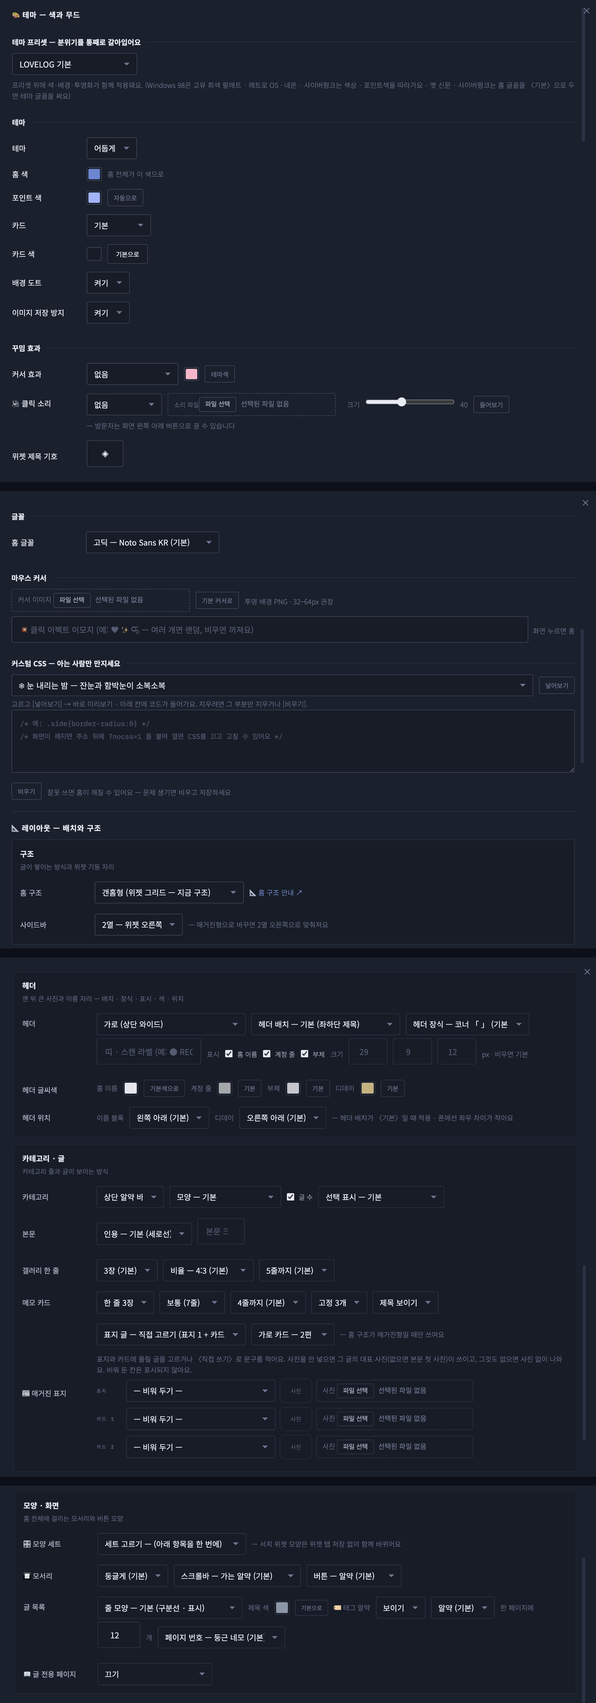
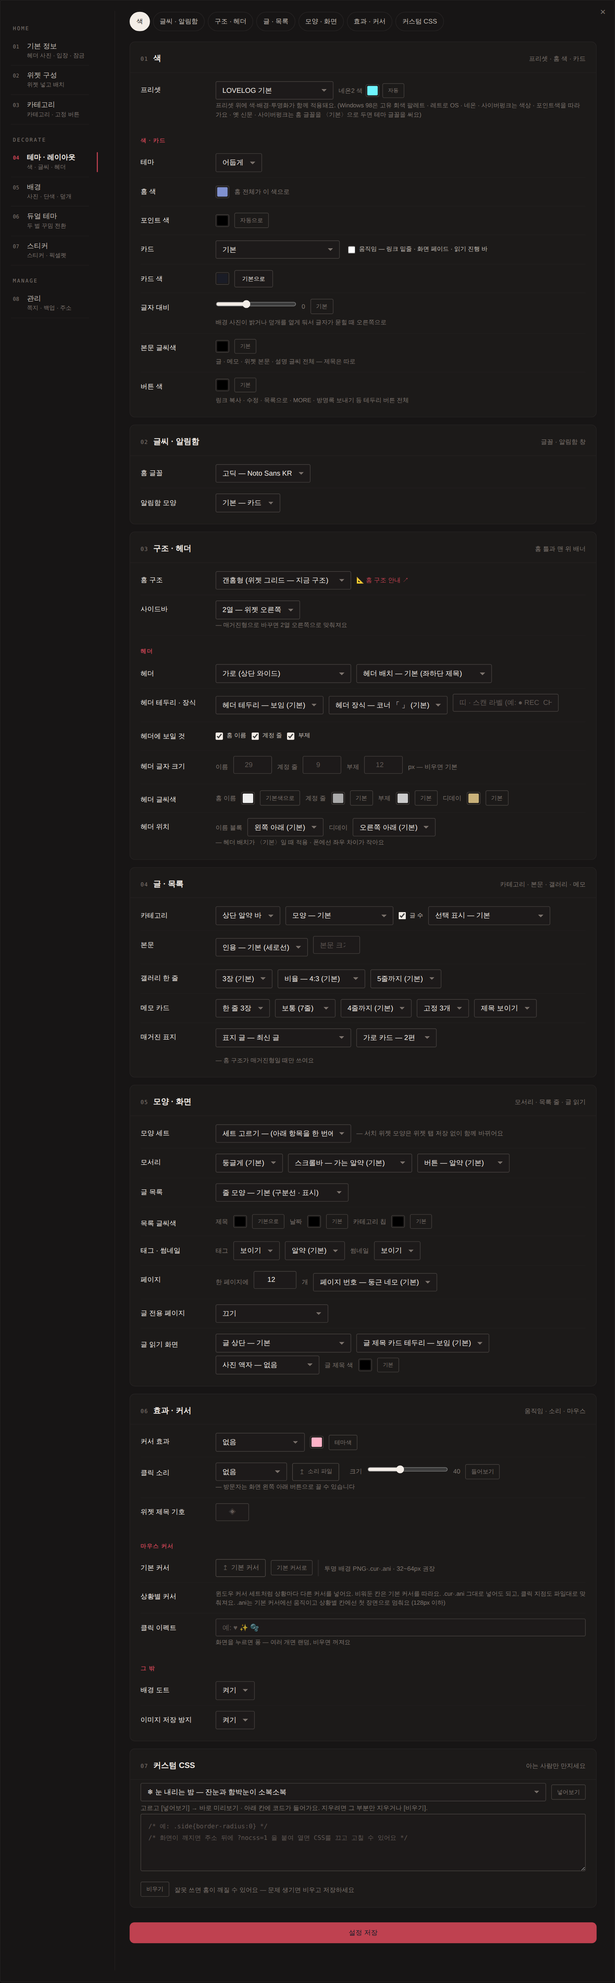
Add files via upload

diff --git a/luvlog/theme.html b/luvlog/theme.html
@@ -23,11 +23,25 @@
   <main class="doc">
     <p class="crumb">러브로그 · 꾸미기</p>
     <h1>테마·레이아웃</h1>
-    <p class="lead">설정 창은 위에서 아래로 구조 → 헤더 → 카테고리·글 → 모양·화면 → 테마 프리셋 → 테마·색 → 꾸밈 효과 순서입니다. 각 덩이가 하는 일만 알면 어디를 만져야 할지 바로 보입니다.</p><dl class="kv"><dt>구조</dt><dd>홈 구조(갠홈·블로그·매거진), 사이드바 2열/3열, 헤더를 세로 칼럼(왼쪽/오른쪽)으로 — 대문 사진이 그 칸 전체를 차지하고 스크롤을 따라옵니다.</dd><dt>헤더</dt><dd>헤더 자리(가로 · 세로 · 세로 칼럼 왼쪽/오른쪽 · 헤더 없음 — 카테고리부터 시작), 배치 프리셋 6종(기본·센터·명함·스플릿·미니멀·매거진), 액자 장식 7종(코너·없음·상단 띠·이중선·필름·스탬프·스캔라인), 이름·계정 줄·부제 표시와 크기·색, 이름 블록·디데이 블록 자리(9방향). 〈미니멀〉은 배너 사진을 숨기는 배치.</dd><dt>카테고리·글</dt><dd>카테고리 위치와 모양, 본문 글씨 크기(11~20px), 갤러리 한 줄 장수(1~4), 메모 카드 개수(2~4), 글 목록 줄 모양 6종(기본·번호 목차·점 리더·카드·미니멀·왼쪽 선), 제목 색 · 날짜 색 · 카테고리 칩 색, 태그 알약, 썸네일 표시, 한 페이지 글 수(3~100), 페이지 번호 모양 5종, 글 읽기 화면 — 글 상단 타이틀 카드(기본 · 표지형 · 신문 헤드라인 · 티켓) · 사진 액자(폴라로이드 · 필름 · 둥근 그림자 · 얇은 선) · 글 제목 색, 글 전용 페이지(글 읽을 때 위젯 접기).</dd><dt>모양·화면</dt><dd>모서리(둥근/각진/뾰족 — 카드·버튼·알약까지), 버튼 모양(BACK·더보기 — 알약·네모·글자만).</dd><dt>테마 프리셋</dt><dd>색·글꼴·효과를 한 번에 갈아입는 세트. 누른 뒤 아래에서 세부 조정. <b>옛 신문</b>은 신문 제호처럼 보이도록 헤더 사진을 기본으로 숨깁니다 — 사진을 쓰려면 프리셋 셀렉트 옆 「마스트헤드 아래 헤더 사진 보이기」를 켜세요(제호 아래 세피아 액자로, PC 240px · 폰 160px).</dd><dt>테마·색</dt><dd>홈 색·포인트 색(자동/직접), 카드(기본 · 유리 · 종이 · 선만 · 라벨 없이) · 카드 색, 움직임(링크 밑줄 · 화면 페이드 · 읽기 진행 바), 글자 대비(배경 사진이 밝거나 덮개를 옅게 둬 글자가 묻힐 때 오른쪽으로), 본문 글씨색(글 · 메모 · 위젯 본문 · 설명 전체) · 버튼 색(테두리 버튼 전체), 배경 도트, 밝은 테마, 헤더 배경 없애기(투명 PNG 헤더용), 글꼴 12종(고딕·명조·프리텐다드·수트·고운돋움·고운바탕·마루 부리·리디바탕·나눔손글씨 펜·둥근모꼴·갈무리·페이퍼로지), 이미지 저장 방지, 커스텀 CSS.</dd><dt>꾸밈 효과</dt><dd>커서 효과(✨💗🫧)·움짤 커서(GIF, PC), 컨셉 프리셋 12종(눈 내리는 밤·벚꽃·반딧불이·심해 부유물·거품·빛 입자·금빛 별가루·VHS·비 오는 창가·필름 카메라·CRT·점선 스크랩북), 🔊 클릭 소리(딸깍·톡·삑·뽁 — 방문자는 왼쪽 아래 🔇로 끔).</dd></dl><figure class="shot" data-id="ll-theme-panel"><img src="../img/ll-theme-panel.png" alt="" loading="lazy" onerror="this.closest('figure').classList.add('empty')"><span class="ph"><b>사진 자리</b><i>img/ll-theme-panel.png</i></span><figcaption>테마·레이아웃 설정 창</figcaption></figure><figure class="shot" data-id="ll-theme-header"><img src="../img/ll-theme-header.png" alt="" loading="lazy" onerror="this.closest('figure').classList.add('empty')"><span class="ph"><b>사진 자리</b><i>img/ll-theme-header.png</i></span><figcaption>헤더 배치 프리셋 6종</figcaption></figure><aside class="tip">컬러 피커 — 아래 바로 색상, 위 네모에서 채도(왼쪽=차분/오른쪽=쨍)와 밝기. 색을 만지면 위젯과 버튼이 전부 따라옵니다.</aside><aside class="warn">커스텀 CSS로 화면이 깨져 손을 못 대겠으면 주소 뒤에 <code>?nocss=1</code>을 붙여 여세요. CSS가 꺼진 채 열려 고치거나 비울 수 있습니다.</aside>
-    <h2 id="테두리-끄기">헤더 · 글 제목 카드 테두리</h2>
+    <p class="lead">설정 창 위쪽의 칩(색 · 글씨·알림함 · 구조·헤더 · 글·목록 · 모양·화면 · 효과·커서 · 커스텀 CSS)을 누르면 그 섹션으로 바로 이동합니다. 섹션은 아래 순서대로 놓여 있고, 줄마다 왼쪽 이름표와 아래 설명으로 무엇을 바꾸는지 적혀 있습니다.</p><dl class="kv"><dt>01 색</dt><dd>프리셋 — 색·글꼴·효과를 한 번에 갈아입는 세트입니다. 고른 뒤 아래에서 세부 조정합니다. <b>옛 신문</b>은 신문 제호처럼 보이도록 헤더 사진을 기본으로 숨깁니다 — 사진을 쓰려면 프리셋 옆 「마스트헤드 아래 헤더 사진 보이기」를 켜세요(제호 아래 세피아 액자로, PC 240px · 폰 160px). 이어서 밝게/어둡게, 홈 색 · 포인트 색(자동/직접), 카드(기본 · 유리 · 종이 · 선만 · 라벨 없이) · 카드 색, 움직임(링크 밑줄 · 화면 페이드 · 읽기 진행 바), 글자 대비(배경 사진이 밝거나 덮개를 옅게 둬 글자가 묻힐 때 오른쪽으로), 본문 글씨색(글 · 메모 · 위젯 본문 · 설명 전체) · 버튼 색(테두리 버튼 전체).</dd><dt>02 글씨 · 알림함</dt><dd>홈 글꼴 12종(고딕·명조·프리텐다드·수트·고운돋움·고운바탕·마루 부리·리디바탕·나눔손글씨 펜·둥근모꼴·갈무리·페이퍼로지)과 🔔 알림함 모양.</dd><dt>03 구조 · 헤더</dt><dd>홈 구조(갠홈·블로그·매거진), 사이드바 2열/3열, 헤더 자리(가로 · 세로 · 세로 칼럼 왼쪽/오른쪽 · 헤더 없음 — 카테고리부터 시작), 배치 프리셋 6종(기본·센터·명함·스플릿·미니멀·매거진), 헤더 테두리, 액자 장식 7종(코너·없음·상단 띠·이중선·필름·스탬프·스캔라인), 헤더에 보일 것(홈 이름 · 계정 줄 · 부제)과 글자 크기 · 글씨색, 이름 블록 · 디데이 블록 자리. 〈미니멀〉은 배너 사진을 숨기는 배치입니다.</dd><dt>04 글 · 목록</dt><dd>카테고리 위치와 모양 · 글 수 · 선택 표시, 본문 인용 모양과 글씨 크기(11~20px), 갤러리 한 줄 장수 · 비율 · 줄 수, 메모 카드 개수 · 높이 · 고정 · 제목, 매거진 표지(매거진형일 때만).</dd><dt>05 모양 · 화면</dt><dd>모양 세트(아래 항목을 한 번에), 모서리(둥근/각진/뾰족 — 카드·버튼·알약까지) · 스크롤바 · 버튼 모양, 글 목록 줄 모양 6종(기본·번호 목차·점 리더·카드·미니멀·왼쪽 선), 목록 글씨색(제목 · 날짜 · 카테고리 칩), 태그 알약 · 썸네일, 한 페이지 글 수(3~100) · 페이지 번호 모양 5종, 글 전용 페이지(글 읽을 때 위젯 접기), 글 읽기 화면 — 글 상단 타이틀 카드(기본 · 표지형 · 신문 헤드라인 · 티켓) · 글 제목 카드 테두리 · 사진 액자(폴라로이드 · 필름 · 둥근 그림자 · 얇은 선) · 글 제목 색.</dd><dt>06 효과 · 커서</dt><dd>커서 효과(✨💗🫧), 🔊 클릭 소리(딸깍·톡·삑·뽁 또는 직접 올린 소리 — 방문자는 왼쪽 아래 🔇로 끔), 위젯 제목 기호(◈), 마우스 커서(기본 커서 · 상황별 커서), 클릭 이펙트 이모지, 배경 도트, 이미지 저장 방지.</dd><dt>07 커스텀 CSS</dt><dd>컨셉 프리셋 12종(눈 내리는 밤·벚꽃·반딧불이·심해 부유물·거품·빛 입자·금빛 별가루·VHS·비 오는 창가·필름 카메라·CRT·점선 스크랩북)을 [넣어보기]로 바로 미리 보고, 아래 칸에서 직접 고칩니다.</dd></dl><figure class="shot" data-id="ll-theme-panel"><img src="../img/ll-theme-panel.png" alt="" loading="lazy" onerror="this.closest('figure').classList.add('empty')"><span class="ph"><b>사진 자리</b><i>img/ll-theme-panel.png</i></span><figcaption>테마·레이아웃 설정 창 — 위쪽 칩으로 섹션 이동</figcaption></figure><figure class="shot" data-id="ll-theme-header"><img src="../img/ll-theme-header.png" alt="" loading="lazy" onerror="this.closest('figure').classList.add('empty')"><span class="ph"><b>사진 자리</b><i>img/ll-theme-header.png</i></span><figcaption>헤더 배치 프리셋 6종</figcaption></figure><aside class="tip">컬러 피커 — 아래 바로 색상, 위 네모에서 채도(왼쪽=차분/오른쪽=쨍)와 밝기. 색을 만지면 위젯과 버튼이 전부 따라옵니다.</aside><aside class="warn">커스텀 CSS로 화면이 깨져 손을 못 대겠으면 주소 뒤에 <code>?nocss=1</code>을 붙여 여세요. CSS가 꺼진 채 열려 고치거나 비울 수 있습니다.</aside>
+    <h2 id="알림함-모양">🔔 알림함 모양</h2>
 <ul>
-  <li>헤더 탭의 〈헤더 테두리 — 없음〉은 홈 맨 위 헤더 배너 카드를 두르는 1px 선을 지웁니다.</li>
-  <li>색·글씨 탭의 〈글 제목 카드 테두리 — 없음〉은 글 읽기 화면 맨 위 제목 카드의 선을 지웁니다 — 신문 헤드라인형의 위아래 선, 티켓형의 카드 테두리와 양옆 구멍 장식, 표지형 테두리까지. 기본형은 원래 선이 없어 달라지지 않습니다.</li>
+  <li>홈 주인에게만 보이는 오른쪽 위 🔔 알림함 창의 모양입니다. 기본(카드) · 줄 목록 · 터미널 · 편지지 · 말풍선 중에서 고릅니다.</li>
+  <li>테마가 알아서 바꾸지 않습니다 — 고른 모양이 그대로 유지됩니다. 알림함 쓰는 법은 <a href="screen.html#알림함">화면 구성과 버튼</a>에 있습니다.</li>
+</ul>
+<h2 id="마우스-커서">마우스 커서</h2>
+<ul>
+  <li>기본 커서 — 투명 배경 PNG · .cur · .ani 파일을 올립니다(32~64px 권장, 128px 이하만 적용).</li>
+  <li>.ani(움직이는 윈도우 커서)를 기본 커서로 넣으면 움직이는 그대로 재생됩니다. 브라우저가 커서 움직임을 지원하지 않아 그림을 따로 띄워 따라다니게 하는 방식이라, PC에서만 보입니다.</li>
+  <li>상황별 커서 — 윈도우 커서 세트처럼 🔗 링크·버튼 / ✎ 글자 입력 / ✥ 끌어 옮기기 / ⊘ 사용 불가 칸마다 다른 커서를 넣습니다. 비워둔 칸은 기본 커서를 따라갑니다. 상황별 칸에 넣은 .ani는 첫 장면으로 멈춥니다.</li>
+  <li>.cur · .ani 파일은 클릭 지점(커서 끝)도 파일에 적힌 대로 맞춰집니다.</li>
+  <li>듀얼 테마를 쓰면 커서도 모드마다 따로 담깁니다.</li>
+</ul>
+<figure class="shot" data-id="ll-cursor-set"><img src="../img/ll-cursor-set.png" alt="" loading="lazy" onerror="this.closest('figure').classList.add('empty')"><span class="ph"><b>사진 자리</b><i>img/ll-cursor-set.png</i></span><figcaption>상황별 커서 — 링크·버튼 / 글자 입력 / 끌어 옮기기 / 사용 불가</figcaption></figure>
+<h2 id="테두리-끄기">헤더 · 글 제목 카드 테두리</h2>
+<ul>
+  <li>구조 · 헤더 섹션의 〈헤더 테두리 — 없음〉은 홈 맨 위 헤더 배너 카드를 두르는 1px 선을 지웁니다.</li>
+  <li>모양 · 화면 섹션 「글 읽기 화면」의 〈글 제목 카드 테두리 — 없음〉은 글 읽기 화면 맨 위 제목 카드의 선을 지웁니다 — 신문 헤드라인형의 위아래 선, 티켓형의 카드 테두리와 양옆 구멍 장식, 표지형 테두리까지. 기본형은 원래 선이 없어 달라지지 않습니다.</li>
 </ul>
 <h2 id="단색-배경">단색 배경과 덮개 색</h2>
 <ul>

diff --git a/luvlog/format.html b/luvlog/format.html
@@ -23,7 +23,7 @@
   <main class="doc">
     <p class="crumb">러브로그 · 글쓰기</p>
     <h1>본문 서식</h1>
-    <p class="lead">툴바 버튼을 누르거나, 아래 문법으로 직접 감싸도 됩니다. 글은 열 때마다 원문으로 다시 그려지므로 서식 기능이 좋아지면 예전 글에도 바로 적용됩니다.</p><h2 id="기본-서식">기본 서식</h2><ul><li>글자를 드래그로 고르고 B · I · U · S · H, 또는 <code>**굵게**</code> <code>*기울임*</code> <code>__밑줄__</code> <code>~~취소선~~</code> <code>==형광펜==</code></li><li>문단 정렬(☰▾ — 가운데·오른쪽·양쪽·들여쓰기), 구분선(―▾ — 가는 선·굵은 선·점선·빗금·◆ 장식), 목록(1.≡ / •≡)</li><li>글자 크기 <code>{{18:글}}</code>(8~72px), 글자색 <code>{{#f00:글}}</code> — 여러 문단에 걸쳐 열고 닫아도 문단마다 적용됩니다. 이 둘은 HTML 블록·HTML 모드 안에서도 씁니다.</li></ul><figure class="shot" data-id="ll-format-toolbar"><img src="../img/ll-format-toolbar.png" alt="" loading="lazy" onerror="this.closest('figure').classList.add('empty')"><span class="ph"><b>사진 자리</b><i>img/ll-format-toolbar.png</i></span><figcaption>글쓰기 툴바</figcaption></figure><h2 id="접은-글-인용-링크">접은 글 · 인용 · 링크</h2><ul><li>▸ 접은 글 — 툴바 ▸ 또는 <code>[접기:제목] … [/접기]</code>. 읽는 사람이 눌러서 펼치는 상자. 접은 내용은 목록 미리보기(발췌)에 안 나옵니다.</li><li>❝ 인용 상자 — 각 줄 앞에 <code>&gt;</code>. 모양(세로선/따옴표/편지지)은 테마·레이아웃에서.</li><li>🔗 글자 링크 — <code>[보일 글자](https://주소)</code></li></ul><h2 id="사진과-영상">사진과 영상</h2><ul><li>사진을 첨부하고 본문에 <code>[사진1]</code> <code>[사진2]</code>를 쓰면 그 자리에 들어갑니다. 붙여넣기(Ctrl+V)나 끌어다 놓기로도 첨부됩니다.</li><li>「⌘ MD 복사」 — 툴바 끝 버튼을 누르면 지금 쓰는 글이 마크다운으로 클립보드에 복사됩니다(접기→details, 사이드노트→각주, 사진은 주소). 글을 읽을 때도 주인에게 ⌘ MD 버튼이 보입니다. 노션·옵시디언·다른 블로그에 그대로 붙일 때.</li><li>본문 장식 — 문단 앞 @d 로 드롭캡(첫 글자 크게), 글 안에 [주:내용] 으로 사이드노트(넓은 화면에선 오른쪽 여백에, 좁으면 본문 아래 작은 글씨), 사진 아래 ~ 로 시작하는 줄은 캡션, >" 는 큰 따옴표 인용, >~ 는 편지지 인용. 툴바의 정렬 메뉴와 ✦ 메뉴에서 넣을 수 있습니다.</li><li>첨부 썸네일의 ☆를 누르면 대표 사진 — 글 목록·매거진 표지에 걸립니다(안 고르면 본문 첫 사진). 본문에 사진이 없어도 「🖼 썸네일 직접 올리기」로 따로 올릴 수 있으며, 대표 사진이 정해지면 확대·가로·세로 슬라이더로 목록(정사각)과 매거진(가로)에서 보일 부분을 조정할 수 있습니다. 「목록 썸네일」 셀렉트로 이 글만 목록에서 썸네일을 보이거나 숨길 수 있으며, 홈 전체 설정보다 우선합니다.</li><li>유튜브 주소를 한 줄에 붙여넣으면 카드로 박힙니다.</li></ul><h2 id="대화-말풍선-서식">💬 대화(말풍선) 서식</h2><p><code>[톡:이름1/이름2]</code> 줄과 <code>[/톡]</code> 줄 사이에 「이름: 대사」를 줄줄이 쓰면 말풍선 대화가 됩니다. 첫 인물이 왼쪽, 둘째가 오른쪽, 이름 없는 줄은 가운데 지문. 이름 뒤에 <code>=#색상</code>을 붙이면 그 사람 풍선에 색이 입혀집니다.</p><p>툴바 💬 팝업에서 모양(기본 / 메신저 흰 박스 / 무전 로그)·창 너비·풍선색·인물별 이름·색·프로필 사진까지 정하고, 〈프리셋 저장〉하면 다음 글에서 <code>[톡@프리셋이름]</code> 한 줄로 재사용됩니다. 페어가 여럿이면 프리셋을 여러 개 만들어 두세요.</p><figure class="shot" data-id="ll-format-talk"><img src="../img/ll-format-talk.png" alt="" loading="lazy" onerror="this.closest('figure').classList.add('empty')"><span class="ph"><b>사진 자리</b><i>img/ll-format-talk.png</i></span><figcaption>대화 서식 팝업과 결과</figcaption></figure><h2 id="html-블록-html-모드">🧩 HTML 블록 / HTML 모드</h2><ul><li>본문 일부만 HTML로 넣으려면 <code>[html]</code> 줄과 <code>[/html]</code> 줄 사이에 코드를 씁니다. 바깥은 평소 서식, 안은 코드 그대로.</li><li>글 전체가 HTML이면 「HTML 모드」 체크. 📄 HTML 파일을 그대로 올려도 되고, 코드 위·아래 일반 텍스트는 줄바꿈까지 그대로 보입니다.</li><li>화면을 붙잡는 형태의 로그는 홈이 밀리지 않게 자동으로 액자에 격리되고, 일반 HTML 글엔 홈 커스텀 CSS가 그대로 적용됩니다.</li></ul><aside class="tip">📑 목차 — 큰 글자(18 이상)로만 쓴 짧은 줄이 2개 이상이면 글 상단에 목차가 자동으로 생깁니다.</aside>
+    <p class="lead">툴바 버튼을 누르거나, 아래 문법으로 직접 감싸도 됩니다. 글은 열 때마다 원문으로 다시 그려지므로 서식 기능이 좋아지면 예전 글에도 바로 적용됩니다.</p><h2 id="기본-서식">기본 서식</h2><ul><li>글자를 드래그로 고르고 B · I · U · S · H, 또는 <code>**굵게**</code> <code>*기울임*</code> <code>__밑줄__</code> <code>~~취소선~~</code> <code>==형광펜==</code></li><li>문단 정렬(☰▾ — 가운데·오른쪽·양쪽·들여쓰기), 구분선(―▾ — 가는 선·굵은 선·점선·빗금·◆ 장식), 목록(1.≡ / •≡)</li><li>글자 크기 <code>{{18:글}}</code>(8~72px), 글자색 <code>{{#f00:글}}</code> — 여러 문단에 걸쳐 열고 닫아도 문단마다 적용됩니다. 이 둘은 HTML 블록·HTML 모드 안에서도 씁니다.</li></ul><figure class="shot" data-id="ll-format-toolbar"><img src="../img/ll-format-toolbar.png" alt="" loading="lazy" onerror="this.closest('figure').classList.add('empty')"><span class="ph"><b>사진 자리</b><i>img/ll-format-toolbar.png</i></span><figcaption>글쓰기 툴바</figcaption></figure><h2 id="접은-글-인용-링크">접은 글 · 인용 · 링크</h2><ul><li>▸ 접은 글 — 툴바 ▸ 또는 <code>[접기:제목] … [/접기]</code>. 읽는 사람이 눌러서 펼치는 상자. 접은 내용은 목록 미리보기(발췌)에 안 나옵니다.</li><li>❝ 인용 상자 — 각 줄 앞에 <code>&gt;</code>. 모양(세로선/따옴표/편지지)은 테마·레이아웃에서.</li><li>🔗 글자 링크 — <code>[보일 글자](https://주소)</code></li></ul><h2 id="사진과-영상">사진과 영상</h2><ul><li>사진을 첨부하고 본문에 <code>[사진1]</code> <code>[사진2]</code>를 쓰면 그 자리에 들어갑니다. 붙여넣기(Ctrl+V)나 끌어다 놓기로도 첨부됩니다. 첨부 썸네일의 ✕로 사진을 빼면 본문의 [사진N] 번호가 자동으로 다시 매겨집니다.</li><li>슬라이드 — <code>[슬라이드 1-3]</code>처럼 쓰면 그 사진들이 한 자리에서 넘겨 보는 슬라이드가 됩니다. <code>[슬라이드 2,4,5]</code>처럼 골라 묶을 수도 있고, 첨부 칸의 「⇆ 슬라이드로 넣기」를 누르면 첨부한 사진 전부가 한 번에 들어갑니다.</li><li>「⌘ MD 복사」 — 툴바 끝 버튼을 누르면 지금 쓰는 글이 마크다운으로 클립보드에 복사됩니다(접기→details, 사이드노트→각주, 사진은 주소). 글을 읽을 때도 주인에게 ⌘ MD 버튼이 보입니다. 노션·옵시디언·다른 블로그에 그대로 붙일 때.</li><li>본문 장식 — 문단 앞 @d 로 드롭캡(첫 글자 크게), 글 안에 [주:내용] 으로 사이드노트(넓은 화면에선 오른쪽 여백에, 좁으면 본문 아래 작은 글씨), 사진 아래 ~ 로 시작하는 줄은 캡션, >" 는 큰 따옴표 인용, >~ 는 편지지 인용. 툴바의 정렬 메뉴와 ✦ 메뉴에서 넣을 수 있습니다.</li><li>첨부 썸네일의 ☆를 누르면 대표 사진 — 글 목록·매거진 표지에 걸립니다(안 고르면 본문 첫 사진). 본문에 사진이 없어도 「🖼 썸네일 직접 올리기」로 따로 올릴 수 있으며, 대표 사진이 정해지면 확대·가로·세로 슬라이더로 목록(정사각)과 매거진(가로)에서 보일 부분을 조정할 수 있습니다. 「목록 썸네일」 셀렉트로 이 글만 목록에서 썸네일을 보이거나 숨길 수 있으며, 홈 전체 설정보다 우선합니다.</li><li>유튜브 주소를 한 줄에 붙여넣으면 카드로 박힙니다.</li></ul><h2 id="대화-말풍선-서식">💬 대화(말풍선) 서식</h2><p><code>[톡:이름1/이름2]</code> 줄과 <code>[/톡]</code> 줄 사이에 「이름: 대사」를 줄줄이 쓰면 말풍선 대화가 됩니다. 첫 인물이 왼쪽, 둘째가 오른쪽, 이름 없는 줄은 가운데 지문. 이름 뒤에 <code>=#색상</code>을 붙이면 그 사람 풍선에 색이 입혀집니다.</p><p>툴바 💬 팝업에서 모양(기본 / 메신저 흰 박스 / 무전 로그)·창 너비·풍선색·인물별 이름·색·프로필 사진까지 정하고, 〈프리셋 저장〉하면 다음 글에서 <code>[톡@프리셋이름]</code> 한 줄로 재사용됩니다. 페어가 여럿이면 프리셋을 여러 개 만들어 두세요.</p><figure class="shot" data-id="ll-format-talk"><img src="../img/ll-format-talk.png" alt="" loading="lazy" onerror="this.closest('figure').classList.add('empty')"><span class="ph"><b>사진 자리</b><i>img/ll-format-talk.png</i></span><figcaption>대화 서식 팝업과 결과</figcaption></figure><h2 id="html-블록-html-모드">🧩 HTML 블록 / HTML 모드</h2><ul><li>본문 일부만 HTML로 넣으려면 <code>[html]</code> 줄과 <code>[/html]</code> 줄 사이에 코드를 씁니다. 바깥은 평소 서식, 안은 코드 그대로.</li><li>글 전체가 HTML이면 「HTML 모드」 체크. 📄 HTML 파일을 그대로 올려도 되고, 코드 위·아래 일반 텍스트는 줄바꿈까지 그대로 보입니다.</li><li>화면을 붙잡는 형태의 로그는 홈이 밀리지 않게 자동으로 액자에 격리되고, 일반 HTML 글엔 홈 커스텀 CSS가 그대로 적용됩니다.</li></ul><aside class="tip">📑 목차 — 큰 글자(18 이상)로만 쓴 짧은 줄이 2개 이상이면 글 상단에 목차가 자동으로 생깁니다.</aside>
     <nav class="pn" id="pn"></nav>
   </main>
 </div>

diff --git a/luvlog/basic.html b/luvlog/basic.html
@@ -23,7 +23,7 @@
   <main class="doc">
     <p class="crumb">러브로그 · 꾸미기</p>
     <h1>기본 정보</h1>
-    <h2 id="이름과-라벨">이름과 라벨</h2><p>홈 이름·부제(엔터로 줄 나눔), 헤더 위 작은 라벨(도형과 글자 따로 — 기본은 ◈ @핸들), 파비콘(정사각 PNG 권장), 앱 아이콘(폰 홈 화면 추가 때 — 대문·헤더 사진 / 직접 올린 사진 / 기본 하트), 러브인포 핸들(적으면 오른쪽 위에 LUVINFO 링크).</p><h2 id="헤더-사진">헤더 사진</h2><ul><li>여러 장이면 자동 슬라이드. 크롭해서 올릴 필요 없이 사진마다 확대(100~250%)·가로·세로 슬라이더로 보여줄 부분을 정하고, PC·모바일 미리보기가 나란히 뜹니다.</li><li>↑↓로 순서(첫 장이 슬라이드 시작이자 입장 화면 기본). 헤더 글씨 끄기, 그라데이션(어둡게/밝게/없음), 높이·채우기 — 세로로 긴 사진은 「사진 비율에 맞추기」.</li></ul><figure class="shot" data-id="ll-basic-header"><img src="../img/ll-basic-header.png" alt="" loading="lazy" onerror="this.closest('figure').classList.add('empty')"><span class="ph"><b>사진 자리</b><i>img/ll-basic-header.png</i></span><figcaption>헤더 사진 편집 — PC·모바일 미리보기</figcaption></figure><h2 id="입장-화면-대문">입장 화면(대문)</h2><ul><li>첫 방문자에게 보이는 대문. 사진·움짤·짧은 영상(mp4·webm, 15MB) 배경.</li><li>문구·비밀번호([잠금 해제하기]로 풀기)·입장 버튼 글자·글씨색·버튼색·그라데이션 끄기. [대문 미리보기]로 확인(아무 데나 클릭·ESC로 나옴).</li><li>「대문 끄기」를 켜면 방문자가 입장 화면 없이 바로 홈으로 들어옵니다. 비밀번호를 걸어둔 홈은 켜도 대문이 뜹니다.</li><li>🔗 글 링크로 오면 대문 건너뛰기 — 글 링크로 바로 들어온 방문자는 대문 없이 글부터(비밀번호 대문엔 적용 안 됨).</li><li>대문 모양 5종(기본 알약·열쇠 구멍·카드·터미널·티켓)과 배치 7곳(아래 가운데·정중앙·위·네 구석).</li></ul><figure class="shot" data-id="ll-basic-gate"><img src="../img/ll-basic-gate.png" alt="" loading="lazy" onerror="this.closest('figure').classList.add('empty')"><span class="ph"><b>사진 자리</b><i>img/ll-basic-gate.png</i></span><figcaption>입장 화면 모양 5종 — PC 화면 기준</figcaption></figure><h2 id="그-밖에">그 밖에</h2><ul><li>대표 이미지(정사각 — 이웃 위젯·홈 목록용)와 배너 이미지(가로형 — 남의 배너칸용)를 따로.</li><li>내 홈 공개하기 — 켜면 남이 나를 걸었을 때 내 이름·사진이 자동으로 뜹니다(기본 비공개).</li><li>이웃 전용 메모 🔒 — 맞배너인 분에게만 화면 오른쪽 위 🔒로 보이는 비밀 메모. 비밀글 비번 안내 등에.</li><li>💬 댓글 허용 범위 — 로그인한 누구나 / 서로 이웃만.</li><li>💛 반응 이모지 — 댓글·방명록의 ＋ 이모지 5개를 홈마다 변경. 이미 쌓인 숫자는 칸 순서를 따라가니 순서 변경은 신중하게.</li><li>문의·제보 — 운영자에게 바로 전달되고 답변도 같은 자리에서.</li></ul>
+    <p class="lead">꾸미기 → 기본 정보. 위쪽 칩(이름·라벨 · 아이콘 · 헤더 사진 · 대표·배너 · 입장 화면 · 공개·잠금 · 댓글·반응 · 이웃 전용 메모 · 꾸미기 초기화)을 누르면 그 섹션으로 바로 이동합니다. 마지막에 [설정 저장]을 누릅니다.</p><figure class="shot" data-id="ll-basic-panel"><img src="../img/ll-basic-panel.png" alt="" loading="lazy" onerror="this.closest('figure').classList.add('empty')"><span class="ph"><b>사진 자리</b><i>img/ll-basic-panel.png</i></span><figcaption>기본 정보 설정 창</figcaption></figure><h2 id="이름과-라벨">01 이름 · 라벨</h2><ul><li>홈 이름 · 부제(엔터로 줄 나눔).</li><li>헤더 위 라벨 — 이름 위 작은 줄. 도형과 글자를 따로 적고, 비우면 ◈ @핸들.</li><li>러브인포 — 핸들을 적으면 오른쪽 위에 LUVINFO 링크가 붙습니다(luvinfo.me/핸들).</li></ul><h2 id="아이콘">02 아이콘</h2><ul><li>파비콘 — 브라우저 탭에 뜨는 작은 아이콘. 정사각 PNG 권장(투명 배경 유지). 탭 제목은 홈 이름으로 자동.</li><li>앱 아이콘 — 폰 「홈 화면에 추가」 때 붙는 아이콘. 대문·헤더 사진 / 직접 올린 사진 / 기본 하트 중에서 고르고, 정사각으로 잘립니다.</li></ul><h2 id="헤더-사진">03 헤더 사진</h2><ul><li>여러 장이면 자동 슬라이드. 크롭해서 올릴 필요 없이 사진마다 확대(100~250%)·가로·세로 슬라이더로 보여줄 부분을 정하고, PC·모바일 미리보기가 나란히 뜹니다.</li><li>↑↓로 순서(첫 장이 슬라이드 시작이자 입장 화면 기본).</li><li>높이 · 맞춤 — 세로로 긴 사진은 「사진 비율에 맞추기」를 고르면 높이가 사진에 맞춰져 여백도 잘림도 없습니다.</li><li>그라데이션(어둡게/밝게/없음), 헤더에 글씨 표시, 헤더 배경 없애기(투명 PNG 헤더가 배경 위에 그대로 얹힘).</li></ul><figure class="shot" data-id="ll-basic-header"><img src="../img/ll-basic-header.png" alt="" loading="lazy" onerror="this.closest('figure').classList.add('empty')"><span class="ph"><b>사진 자리</b><i>img/ll-basic-header.png</i></span><figcaption>헤더 사진 편집 — PC·모바일 미리보기</figcaption></figure><h2 id="대표-배너">04 대표 · 배너</h2><ul><li>대표 이미지(정사각 — 이웃 위젯·홈 목록용)와 배너 이미지(가로형 — 남의 배너칸용)를 따로 올립니다. 대표 이미지를 비우면 헤더 사진을 씁니다.</li><li>목록에 싣기 — 켜면 남이 나를 걸었을 때 내 이름·사진이 자동으로 뜹니다(기본 꺼짐).</li></ul><h2 id="입장-화면-대문">05 입장 화면(대문)</h2><ul><li>첫 방문자에게 보이는 대문. 한 줄 문구와 사진·움짤·짧은 영상(mp4·webm, 15MB) 배경.</li><li>모양 · 배치 — 대문 모양 5종(기본 알약·열쇠 구멍·카드·터미널·티켓)과 배치 7곳(아래 가운데·정중앙·위·네 구석).</li><li>입장 버튼 — 버튼 글자 · 글씨색 · 버튼색.</li><li>옵션 — 사진 위 그라데이션, 🔗 글 링크로 오면 대문 건너뛰기(글 링크로 바로 들어온 방문자는 대문 없이 글부터 — 비밀번호 대문엔 적용 안 됨), 대문 끄기(입장 화면 없이 바로 홈으로 — 비밀번호를 걸어둔 홈은 켜도 대문이 뜹니다).</li><li>[대문 미리보기]로 확인합니다(아무 데나 클릭·ESC로 나옴).</li></ul><figure class="shot" data-id="ll-basic-gate"><img src="../img/ll-basic-gate.png" alt="" loading="lazy" onerror="this.closest('figure').classList.add('empty')"><span class="ph"><b>사진 자리</b><i>img/ll-basic-gate.png</i></span><figcaption>입장 화면 모양 5종 — PC 화면 기준</figcaption></figure><h2 id="공개-잠금">06 공개 · 잠금</h2><ul><li>홈 비공개 — 「나만 보기」를 켜면 다른 사람에겐 「없는 페이지」로 보입니다.</li><li>🔐 홈 잠금 — 누가 홈을 열 수 있는지 정합니다.</li></ul><dl class="kv"><dt>잠금 없음</dt><dd>주소를 아는 사람은 누구나 봅니다.</dd><dt>러브로그 회원만</dt><dd>러브로그에 홈이 있는 계정으로 로그인해야 열립니다. 구글 로그인만 하고 홈이 없는 계정은 열 수 없습니다.</dd><dt>서로 이웃만</dt><dd>서로의 홈을 배너칸·이웃 홈에 걸어둔 홈의 주인만 열립니다.</dd><dt>비밀번호로</dt><dd>정한 잠금 비밀번호를 서버가 확인한 사람만 열립니다. 한 번 열면 정한 기간 동안 다시 묻지 않습니다.</dd><dt>대문 비밀번호만</dt><dd>대문 화면만 가리는 커튼입니다.</dd></dl><aside class="warn">〈회원만 · 서로 이웃만 · 비밀번호로〉는 서버가 홈 데이터 자체를 내려주지 않아 개발자도구로도 볼 수 없고, 잠그면 외부인은 홈 이름조차 못 봅니다. 〈대문 비밀번호만〉은 화면만 가리는 방식이라 개발자도구(F12)를 아는 사람은 비밀번호 없이 안을 볼 수 있습니다 — 주소가 퍼질 수 있는 홈이라면 위의 셋 중에서 고르세요.</aside><h2 id="댓글-반응">07 댓글 · 반응</h2><ul><li>💬 댓글 허용 — 로그인한 누구나 / 서로 이웃만. 읽기는 누구나 됩니다.</li><li>💛 반응 이모지 — 댓글·방명록의 ＋ 이모지 1~5개를 홈마다 변경(비우면 기본). 이미 쌓인 숫자는 칸 순서를 따라가니 순서 변경은 신중하게. 「반응 기능 끄기」로 아예 숨길 수도 있습니다.</li></ul><h2 id="이웃-전용-메모">08 이웃 전용 메모</h2><ul><li>맞배너인 분에게만 화면 오른쪽 위 🔒로 보이는 비밀 메모. 비밀글 비번 안내 등에 씁니다. 아주 중요한 비밀번호는 넣지 마세요.</li><li>이 메모만 섹션 안의 [메모 저장] · [메모 삭제]로 따로 저장됩니다(설정 저장과 별개).</li></ul><h2 id="꾸미기-초기화">09 꾸미기 초기화</h2><p>글·갤러리·방명록은 그대로 두고, 꾸민 설정만 처음 상태로 되돌립니다. 되돌릴 범위를 고른 뒤 [초기화]. 실수했다면 관리 탭의 ⏪ 되돌리기로 복구합니다.</p><aside class="tip">문의·제보는 관리 탭에서 보냅니다. 운영자에게 바로 전달되고 답변도 같은 자리에서 확인합니다.</aside>
     <nav class="pn" id="pn"></nav>
   </main>
 </div>

diff --git a/luvlog/widgets.html b/luvlog/widgets.html
@@ -23,7 +23,7 @@
   <main class="doc">
     <p class="crumb">러브로그 · 위젯</p>
     <h1>위젯 공통 — 추가·편집·배치</h1>
-    <p class="lead">꾸미기 → 위젯 구성에서 넣고, 편집은 ✎ 팝업에서, 마지막에 [위젯 구성 저장]을 꼭 누릅니다.</p><h2 id="추가와-편집">추가와 편집</h2><ol class="steps"><li>꾸미기(✦) → 위젯 구성에서 위젯을 추가합니다.</li><li>목록의 ✎를 누르면 편집이 큰 팝업으로 열립니다. 닫아도 내용은 남습니다.</li><li>[위젯 구성 저장]을 눌러야 홈에 반영됩니다. 내용이 빈 위젯은 방문자에게 안 보입니다.</li></ol><figure class="shot" data-id="ll-widget-list"><img src="../img/ll-widget-list.png" alt="" loading="lazy" onerror="this.closest('figure').classList.add('empty')"><span class="ph"><b>사진 자리</b><i>img/ll-widget-list.png</i></span><figcaption>위젯 구성 목록과 ✎ 편집 팝업</figcaption></figure><h2 id="배치">배치</h2><ul><li>PC에선 ⠿ 편집 모드에서 드래그로 기둥 사이·순서를 옮깁니다 — 카드 위쪽 절반에 놓으면 그 위, 아래쪽 절반이면 그 아래. ↑↓ 버튼으로도 이동.</li><li>모바일 순서는 따로 저장 — 폰으로 내 홈을 열면 위젯마다 ↑↓가 떠서 그 자리에서 정합니다(PC 배치는 안 바뀜).</li><li>📌 플로팅(PC 전용) — 목록의 📌를 누르면 위젯이 컬럼에서 빠져나와 화면 위에 뜹니다. 편집 모드에서 드래그로 배치(자동 저장). 폰·좁은 창에선 원래 자리로 돌아가고, 글 읽는 동안엔 비켜 줍니다.</li></ul><h2 id="표시-범위">표시 범위</h2><p>목록 각 줄의 표시 버튼에서 「홈에서만 · PC에서만 · 꺼두기」를 체크로 조합합니다. 홈에서만+PC에서만을 함께 켜면 PC로 홈을 볼 때만 보입니다. 꺼두기는 설정을 보관한 채 잠시 감춤(꺼둔 채로도 순서·✎ 편집 가능).</p><h2 id="모든-위젯에-있는-것">모든 위젯에 있는 것</h2><ul><li>위젯 제목 — ✎ 맨 위 〈위젯 제목〉에서 머리 글자(SEARCH · D-DAY 등)를 바꿉니다. 제목 앞 기호(◈)는 테마·레이아웃에서.</li><li>🫧 투명 — 카드 배경·테두리 없이 내용만.</li><li>🔗 클릭하면 이동 — 위젯을 누르면 정한 카테고리·글·주소로 갑니다. 페어 프로필을 눌러 소개 글로 보내는 식으로. 위젯 안의 링크·버튼은 그대로 동작합니다.</li><li>카테고리 화면에선 왼쪽/오른쪽 — 글 목록 화면으로 넘어갔을 때 붙을 쪽.</li><li>스킨·글꼴·글자색·포인트색·크기 — 스킨이 있는 위젯은 ✎에서 고르고, 같은 자리에서 글꼴과 색을 위젯마다 따로 정합니다.</li><li>⧉ 복제 — 채팅로그·이미지·타임라인처럼 여러 개 두는 위젯은 목록의 ⧉로 설정을 통째로 복사.</li></ul>
+    <p class="lead">꾸미기 → 위젯 구성에서 넣고, 편집은 ✎ 팝업에서, 마지막에 맨 위 [위젯 구성 저장]을 꼭 누릅니다.</p><h2 id="추가와-편집">추가와 편집</h2><ol class="steps"><li>꾸미기(✦) → 위젯 구성 맨 위 줄에서 위젯 종류를 고르고 [＋ 추가]를 누릅니다.</li><li>목록의 ✎를 누르면 편집이 큰 팝업으로 열립니다. 닫아도 내용은 남습니다.</li><li>맨 위 [위젯 구성 저장]을 눌러야 홈에 반영됩니다. 내용이 빈 위젯은 방문자에게 안 보입니다.</li></ol><figure class="shot" data-id="ll-widget-list"><img src="../img/ll-widget-list.png" alt="" loading="lazy" onerror="this.closest('figure').classList.add('empty')"><span class="ph"><b>사진 자리</b><i>img/ll-widget-list.png</i></span><figcaption>위젯 구성 — 맨 위 추가·저장, 찾기·상태 칩, 켜둔 위젯과 접힌 꺼둔 칸</figcaption></figure><h2 id="목록-보기">목록 보기 — 찾기 · 상태 칩 · 위젯별</h2><ul><li>🔍 찾기 — 위젯 이름이나 ✎에서 적은 메모로 찾습니다.</li><li>상태 칩 — 전체 · 켜짐 · 꺼둠 · 홈에서만 · PC에서만 · 띄움. 누르면 그 상태인 위젯만 보이고, 한 번 더 누르면 다시 전체입니다. 해당하는 위젯이 없는 칩은 안 보입니다.</li><li>화면 순서로 / 위젯별로 — 「위젯별로」는 HTML 3개처럼 같은 종류끼리 모아 보여줍니다. 모아 보는 동안에는 ↑↓가 숨고, 순서는 「화면 순서로」에서 바꿉니다.</li><li>찾기 · 칩 · 보기 전환은 함께 쓸 수 있습니다(예: 위젯별로 + HTML 찾기).</li></ul><figure class="shot" data-id="ll-widget-types"><img src="../img/ll-widget-types.png" alt="" loading="lazy" onerror="this.closest('figure').classList.add('empty')"><span class="ph"><b>사진 자리</b><i>img/ll-widget-types.png</i></span><figcaption>위젯별로 보기 — 같은 종류끼리 모아서, 꺼둔 칸을 펼친 모습</figcaption></figure><h2 id="꺼둔-위젯">꺼둔 위젯</h2><ul><li>꺼둔 위젯은 목록 아래 「꺼둔 위젯」 칸으로 따로 모이고, 이 칸은 처음엔 접혀 있습니다. 누르면 펼쳐집니다.</li><li>칸 안의 [다시 켜기]를 누르면 바로 위 켜둔 목록으로 돌아갑니다.</li><li>↑↓는 켜둔 위젯끼리, 꺼둔 위젯끼리만 자리를 바꿉니다 — 사이에 꺼둔 위젯이 끼어 있어도 보이는 순서대로 움직입니다.</li></ul><h2 id="배치">배치</h2><ul><li>PC에선 ⠿ 편집 모드에서 드래그로 기둥 사이·순서를 옮깁니다 — 카드 위쪽 절반에 놓으면 그 위, 아래쪽 절반이면 그 아래. ↑↓ 버튼으로도 이동.</li><li>모바일 순서는 따로 저장 — 폰으로 내 홈을 열면 위젯마다 ↑↓가 떠서 그 자리에서 정합니다(PC 배치는 안 바뀜).</li><li>📌 플로팅(PC 전용) — 목록의 📌를 누르면 위젯이 컬럼에서 빠져나와 화면 위에 뜹니다. 편집 모드에서 드래그로 배치(자동 저장). 폰·좁은 창에선 원래 자리로 돌아가고, 글 읽는 동안엔 비켜 줍니다.</li></ul><h2 id="표시-범위">표시 범위</h2><p>목록 각 줄의 표시 버튼에서 「홈에서만 · PC에서만 · 꺼두기」를 체크로 조합합니다. 홈에서만+PC에서만을 함께 켜면 PC로 홈을 볼 때만 보입니다. 꺼두기는 설정을 보관한 채 잠시 감춤(꺼둔 채로도 ✎ 편집 가능 — 꺼둔 위젯 칸으로 옮겨집니다).</p><h2 id="모든-위젯에-있는-것">모든 위젯에 있는 것</h2><ul><li>위젯 제목 — ✎ 맨 위 〈위젯 제목〉에서 머리 글자(SEARCH · D-DAY 등)를 바꿉니다. 제목 앞 기호(◈)는 테마·레이아웃에서.</li><li>🫧 투명 — 카드 배경·테두리 없이 내용만.</li><li>🔗 클릭하면 이동 — 위젯을 누르면 정한 카테고리·글·주소로 갑니다. 페어 프로필을 눌러 소개 글로 보내는 식으로. 위젯 안의 링크·버튼은 그대로 동작합니다.</li><li>카테고리 화면에선 왼쪽/오른쪽 — 글 목록 화면으로 넘어갔을 때 붙을 쪽.</li><li>스킨·글꼴·글자색·포인트색·크기 — 스킨이 있는 위젯은 ✎에서 고르고, 같은 자리에서 글꼴과 색을 위젯마다 따로 정합니다.</li><li>⧉ 복제 — 채팅로그·이미지·타임라인처럼 여러 개 두는 위젯은 목록의 ⧉로 설정을 통째로 복사.</li></ul>
     <nav class="pn" id="pn"></nav>
   </main>
 </div>

diff --git a/luvlog/screen.html b/luvlog/screen.html
@@ -23,7 +23,7 @@
   <main class="doc">
     <p class="crumb">러브로그 · 시작하기</p>
     <h1>화면 구성과 버튼</h1>
-    <p class="lead">홈은 세 가지 구조 중에서 고르고, 오른쪽 아래 버튼 세 개로 편집·꾸미기·글쓰기를 드나듭니다.</p><h2 id="홈-구조-3종">홈 구조 3종</h2><dl class="kv"><dt>갠홈형</dt><dd>헤더 아래 위젯이 카드로 배열되고 가운데에 고정글·최신글이 뜹니다. 대문 느낌.</dd><dt>블로그형</dt><dd>헤더 아래 바로 글 목록. 로그 위주라면 이쪽. 홈 그리드 대신 사이드바 위젯이 보입니다.</dd><dt>매거진형</dt><dd>갠홈 그대로에 가운데 칸 📰 매거진 표지 위젯이 붙박이로 들어옵니다. 표지 글은 자동(최신·대표·고정) 또는 직접 고르기.</dd></dl><p>꾸미기 → 테마·레이아웃 → 구조에서 바꿉니다.</p><figure class="shot" data-id="ll-screen-structure"><img src="../img/ll-screen-structure.png" alt="" loading="lazy" onerror="this.closest('figure').classList.add('empty')"><span class="ph"><b>사진 자리</b><i>img/ll-screen-structure.png</i></span><figcaption>홈 구조 3종 비교</figcaption></figure><h2 id="오른쪽-아래-버튼">오른쪽 아래 버튼</h2><dl class="kv"><dt>⠿ 위젯 편집</dt><dd>켜져 있는 동안만 위젯 드래그·↑↓ 이동·스티커 배치가 됩니다. 평소에는 내 홈도 방문자처럼 편하게 봅니다.</dd><dt>✦ 꾸미기</dt><dd>설정 대시보드. 왼쪽 메뉴 순서대로 위젯 구성 → 카테고리 → 기본 정보 → 테마·레이아웃 → 배경·스티커 → 관리.</dd><dt>✎ 글쓰기</dt><dd>새 글. 게시판 안에서 누르면 그 카테고리가 자동 선택됩니다.</dd></dl><figure class="shot" data-id="ll-screen-fabs"><img src="../img/ll-screen-fabs.png" alt="" loading="lazy" onerror="this.closest('figure').classList.add('empty')"><span class="ph"><b>사진 자리</b><i>img/ll-screen-fabs.png</i></span><figcaption>오른쪽 아래 버튼 3개</figcaption></figure><h2 id="사이드바와-기둥">사이드바와 기둥</h2><ul><li>사이드바는 왼쪽 / 오른쪽 / 양쪽 중 고르고, 홈 화면의 기둥도 이 설정을 따릅니다.</li><li>홈에서 가운데 칸에 있던 위젯은 글 목록 화면으로 넘어가면 사이드로 붙습니다. 그때 어느 쪽에 둘지 위젯 ✎의 「카테고리 화면에선 왼쪽/오른쪽」으로 정합니다.</li><li>위젯 ✎의 🫧 투명을 켜면 카드 배경·테두리 없이 내용만 얹히고, 편집 모드에선 점선으로 자리가 보입니다.</li></ul>
+    <p class="lead">홈은 세 가지 구조 중에서 고르고, 오른쪽 아래 버튼 세 개로 편집·꾸미기·글쓰기를 드나듭니다.</p><h2 id="홈-구조-3종">홈 구조 3종</h2><dl class="kv"><dt>갠홈형</dt><dd>헤더 아래 위젯이 카드로 배열되고 가운데에 고정글·최신글이 뜹니다. 대문 느낌.</dd><dt>블로그형</dt><dd>헤더 아래 바로 글 목록. 로그 위주라면 이쪽. 홈 그리드 대신 사이드바 위젯이 보입니다.</dd><dt>매거진형</dt><dd>갠홈 그대로에 가운데 칸 📰 매거진 표지 위젯이 붙박이로 들어옵니다. 표지 글은 자동(최신·대표·고정) 또는 직접 고르기.</dd></dl><p>꾸미기 → 테마·레이아웃 → 구조에서 바꿉니다.</p><figure class="shot" data-id="ll-screen-structure"><img src="../img/ll-screen-structure.png" alt="" loading="lazy" onerror="this.closest('figure').classList.add('empty')"><span class="ph"><b>사진 자리</b><i>img/ll-screen-structure.png</i></span><figcaption>홈 구조 3종 비교</figcaption></figure><h2 id="오른쪽-아래-버튼">오른쪽 아래 버튼</h2><dl class="kv"><dt>⠿ 위젯 편집</dt><dd>켜져 있는 동안만 위젯 드래그·↑↓ 이동·스티커 배치가 됩니다. 평소에는 내 홈도 방문자처럼 편하게 봅니다.</dd><dt>✦ 꾸미기</dt><dd>설정 대시보드. 왼쪽 칼럼이 HOME(기본 정보 · 위젯 구성 · 카테고리) · DECORATE(테마·레이아웃 · 배경 · 듀얼 테마 · 스티커) · MANAGE(관리)로 묶여 있고, 탭마다 이름 아래에 들어 있는 것이 한 줄로 적혀 있습니다. 탭 안의 섹션은 위쪽 칩으로 바로 이동합니다.</dd><dt>✎ 글쓰기</dt><dd>새 글. 게시판 안에서 누르면 그 카테고리가 자동 선택됩니다.</dd></dl><figure class="shot" data-id="ll-screen-fabs"><img src="../img/ll-screen-fabs.png" alt="" loading="lazy" onerror="this.closest('figure').classList.add('empty')"><span class="ph"><b>사진 자리</b><i>img/ll-screen-fabs.png</i></span><figcaption>오른쪽 아래 버튼 3개</figcaption></figure><h2 id="알림함">🔔 알림함</h2><ul><li>내 홈에 로그인해 있으면 오른쪽 위 줄에 🔔가 보입니다. 홈 주인에게만 보입니다.</li><li>INBOX — 내 글에 달린 댓글, 방명록, 내가 남긴 댓글·방명록에 달린 답글이 모입니다. 비밀글은 내용 없이 🔒로만 표시되고, 누르면 그 글이나 방명록으로 갑니다.</li><li>NEW — 서로 이웃 홈의 새 글. 잠긴 홈은 LOCKED로만 표시됩니다.</li><li>안 읽은 수가 🔔 옆에 뜨고, READ ALL로 한 번에 읽음 처리합니다.</li><li>창 모양은 테마·레이아웃 → 글씨 · 알림함에서 바꿉니다.</li></ul><h2 id="사이드바와-기둥">사이드바와 기둥</h2><ul><li>사이드바는 왼쪽 / 오른쪽 / 양쪽 중 고르고, 홈 화면의 기둥도 이 설정을 따릅니다.</li><li>홈에서 가운데 칸에 있던 위젯은 글 목록 화면으로 넘어가면 사이드로 붙습니다. 그때 어느 쪽에 둘지 위젯 ✎의 「카테고리 화면에선 왼쪽/오른쪽」으로 정합니다.</li><li>위젯 ✎의 🫧 투명을 켜면 카드 배경·테두리 없이 내용만 얹히고, 편집 모드에선 점선으로 자리가 보입니다.</li></ul>
     <nav class="pn" id="pn"></nav>
   </main>
 </div>

diff --git a/luvinfo/start.html b/luvinfo/start.html
@@ -23,7 +23,7 @@
   <main class="doc">
     <p class="crumb">러브인포 · 시작하기</p>
     <h1>가입과 주소</h1>
-    <p class="lead">러브인포는 러브로그와 별도로 가입하는 독립 서비스입니다. 같은 구글 계정을 써도 홈은 따로입니다.</p><h2 id="가입-순서">가입 순서</h2><ol class="steps"><li>첫 화면 → 시작하기 → Google 로그인.</li><li>초대코드를 넣습니다. 코드는 운영자가 발급하고, 러브로그 코드와는 별개입니다.</li><li>초대해 준 분의 핸들을 <code>@핸들</code> 형태로 정확히 적습니다(예: <code>@mint</code>). 1차가 미리 지정된 초대코드라면 비워도 됩니다.</li><li>내 핸들을 정합니다 — 영문 소문자·숫자·하이픈(가운데만) 1~20자. 치는 동안 쓸 수 있는지 바로 알려줍니다.</li></ol><aside class="warn">이미 홈이 있는 구글 계정으로는 새 홈을 만들 수 없습니다. 다른 사람 기기에서 가입할 때는 그 사람 계정이 로그인돼 있지 않은지 먼저 확인하세요.</aside><figure class="shot" data-id="li-start-signup"><img src="../img/li-start-signup.png" alt="" loading="lazy" onerror="this.closest('figure').classList.add('empty')"><span class="ph"><b>사진 자리</b><i>img/li-start-signup.png</i></span><figcaption>러브인포 가입 화면</figcaption></figure><h2 id="주소">주소</h2><ul><li>핸들이 곧 주소입니다 — <code>luvinfo.me/핸들</code>, <code>핸들.luvinfo.me</code> 둘 다 열립니다.</li><li>서브도메인은 방문자용이라 로그인·편집은 본 주소에서 합니다.</li><li>홈 주소 변경 — 꾸미기 → 고급. 옛 주소는 7일간 안내판으로 남아 링크·배너가 자동으로 넘어갑니다. 30일에 한 번.</li></ul><h2 id="저장-규칙">저장 규칙</h2><ul><li>편집한 내용은 <b>✓ 저장</b>을 눌러야 서버에 반영됩니다. 페이지 순서·꾸미기·숨기기 전부 마찬가지.</li><li>저장 전에 창을 닫으면 경고가 뜹니다. 임시저장은 브라우저에 남아 다음 접속 때 복구를 물어봅니다.</li><li>홈 한 곳의 용량 한도는 약 1MB — 큰 HTML(15만 자 초과)은 자동으로 따로 보관됩니다.</li></ul>
+    <p class="lead">러브인포는 러브로그와 별도로 가입하는 독립 서비스입니다. 같은 구글 계정을 써도 홈은 따로입니다.</p><h2 id="가입-순서">가입 순서</h2><ol class="steps"><li>첫 화면 → 시작하기 → Google 로그인.</li><li>초대코드를 넣습니다. 코드는 운영자가 발급하고, 러브로그 코드와는 별개입니다.</li><li>초대해 준 분의 핸들을 <code>@핸들</code> 형태로 정확히 적습니다(예: <code>@mint</code>). 1차가 미리 지정된 초대코드라면 비워도 됩니다.</li><li>내 핸들을 정합니다 — 영문 소문자·숫자·하이픈(가운데만) 1~20자. 치는 동안 쓸 수 있는지 바로 알려줍니다.</li></ol><aside class="warn">이미 홈이 있는 구글 계정으로는 새 홈을 만들 수 없습니다. 다른 사람 기기에서 가입할 때는 그 사람 계정이 로그인돼 있지 않은지 먼저 확인하세요.</aside><figure class="shot" data-id="li-start-landing"><img src="../img/li-start-landing.png" alt="" loading="lazy" onerror="this.closest('figure').classList.add('empty')"><span class="ph"><b>사진 자리</b><i>img/li-start-landing.png</i></span><figcaption>첫 화면 — 시작하기 (Google 로그인)</figcaption></figure><figure class="shot" data-id="li-start-signup"><img src="../img/li-start-signup.png" alt="" loading="lazy" onerror="this.closest('figure').classList.add('empty')"><span class="ph"><b>사진 자리</b><i>img/li-start-signup.png</i></span><figcaption>러브인포 가입 화면(JOIN) — 초대 코드·초대해 준 분의 핸들·주소, 아래 [CREATE]</figcaption></figure><h2 id="주소">주소</h2><ul><li>핸들이 곧 주소입니다 — <code>luvinfo.me/핸들</code>, <code>핸들.luvinfo.me</code> 둘 다 열립니다.</li><li>서브도메인은 방문자용이라 로그인·편집은 본 주소에서 합니다.</li><li>홈 주소 변경 — 꾸미기 → 고급. 옛 주소는 7일간 안내판으로 남아 링크·배너가 자동으로 넘어갑니다. 30일에 한 번.</li></ul><h2 id="저장-규칙">저장 규칙</h2><ul><li>편집한 내용은 <b>✓ 저장</b>을 눌러야 서버에 반영됩니다. 페이지 순서·꾸미기·숨기기 전부 마찬가지.</li><li>저장 전에 창을 닫으면 경고가 뜹니다. 임시저장은 브라우저에 남아 다음 접속 때 복구를 물어봅니다.</li><li>홈 한 곳의 용량 한도는 약 1MB — 큰 HTML(15만 자 초과)은 자동으로 따로 보관됩니다.</li></ul>
     <nav class="pn" id="pn"></nav>
   </main>
 </div>

diff --git a/luvlog/widgets-html.html b/luvlog/widgets-html.html
@@ -23,7 +23,7 @@
   <main class="doc">
     <p class="crumb">러브로그 · 위젯</p>
     <h1>HTML 위젯</h1>
-    <p class="lead">직접 짠 HTML 조각을 위젯 카드 안에 넣습니다. 상태창·표·배너 격자·마키 텍스트처럼 CSS만으로는 만들기 어려운 작은 블록에 씁니다.</p><ul><li>꾸미기 → 위젯 구성에서 「HTML」을 추가하고 ✎에 코드를 붙여 넣습니다. 홈당 3개, 위젯당 10,000자.</li><li>「홈 전체 폭으로」 — 헤더 아래 · 카테고리 줄 아래 · 홈 맨 아래 중 한 자리에 두면 칸을 벗어나 화면 폭을 가로지릅니다. 전광판이 필요하면 흐르는 글자를 CSS 애니메이션으로: <code>.mq{overflow:hidden;white-space:nowrap}.mq span{display:inline-block;padding-left:100%;animation:mq 18s linear infinite}@keyframes mq{to{transform:translateX(-100%)}}</code>. 코드를 안 짜려면 공지 위젯 띠 배너의 「글자 흐르게」.</li><li>아래 미리보기에 바로 그려지고, 저장은 다른 위젯과 같이 [위젯 구성 저장].</li><li>규칙은 글 HTML 모드와 같습니다 — <code>&lt;style&gt;</code>은 그 위젯 안에만 적용되고, <code>&lt;script&gt;</code>·<code>on*</code> 속성·<code>javascript:</code>는 지워집니다. 화면을 붙잡는 코드(<code>body{}</code> · <code>100vh</code> · <code>position:fixed</code>)는 자동으로 액자에 격리됩니다.</li><li>상태창처럼 카드 없이 붙이려면 🫧 투명을 켜고, 제목 줄도 「제목 줄 숨기기」로 뺄 수 있습니다.</li><li>사진은 base64로 넣지 말고 갤러리에 올린 주소를 쓰세요. 용량이 금방 찹니다.</li><li>홈 색 변수(<code>var(--pri)</code> <code>var(--ink)</code> <code>var(--muted)</code> <code>var(--line)</code> <code>var(--card)</code>)를 쓰면 테마·듀얼을 따라갑니다.</li></ul><aside class="warn">코드 때문에 화면이 깨지면 코드를 비우고 저장하거나, 주소 뒤에 <code>?nocss=1</code>을 붙여 여세요. 스크립트는 방문자의 로그인으로 실행되는 구조라 허용하지 않습니다.</aside><figure class="shot" data-id="ll-w-html"><img src="../img/ll-w-html.png" alt="" loading="lazy" onerror="this.closest('figure').classList.add('empty')"><span class="ph"><b>사진 자리</b><i>img/ll-w-html.png</i></span><figcaption>HTML 위젯 — 편집과 결과</figcaption></figure>
+    <p class="lead">직접 짠 HTML 조각을 위젯 카드 안에 넣습니다. 상태창·표·배너 격자·마키 텍스트처럼 CSS만으로는 만들기 어려운 작은 블록에 씁니다.</p><ul><li>꾸미기 → 위젯 구성에서 「HTML」을 추가하고 ✎에 코드를 붙여 넣습니다. 홈당 5개, 위젯당 10,000자.</li><li>「홈 전체 폭으로」 — 헤더 아래 · 카테고리 줄 아래 · 홈 맨 아래 중 한 자리에 두면 칸을 벗어나 화면 폭을 가로지릅니다. 전광판이 필요하면 흐르는 글자를 CSS 애니메이션으로: <code>.mq{overflow:hidden;white-space:nowrap}.mq span{display:inline-block;padding-left:100%;animation:mq 18s linear infinite}@keyframes mq{to{transform:translateX(-100%)}}</code>. 코드를 안 짜려면 공지 위젯 띠 배너의 「글자 흐르게」.</li><li>아래 미리보기에 바로 그려지고, 저장은 다른 위젯과 같이 [위젯 구성 저장].</li><li>규칙은 글 HTML 모드와 같습니다 — <code>&lt;style&gt;</code>은 그 위젯 안에만 적용되고, <code>&lt;script&gt;</code>·<code>on*</code> 속성·<code>javascript:</code>는 지워집니다. 화면을 붙잡는 코드(<code>body{}</code> · <code>100vh</code> · <code>position:fixed</code>)는 자동으로 액자에 격리됩니다.</li><li>상태창처럼 카드 없이 붙이려면 🫧 투명을 켜고, 제목 줄도 「제목 줄 숨기기」로 뺄 수 있습니다.</li><li>사진은 base64로 넣지 말고 갤러리에 올린 주소를 쓰세요. 용량이 금방 찹니다.</li><li>홈 색 변수(<code>var(--pri)</code> <code>var(--ink)</code> <code>var(--muted)</code> <code>var(--line)</code> <code>var(--card)</code>)를 쓰면 테마·듀얼을 따라갑니다.</li></ul><aside class="warn">코드 때문에 화면이 깨지면 코드를 비우고 저장하거나, 주소 뒤에 <code>?nocss=1</code>을 붙여 여세요. 스크립트는 방문자의 로그인으로 실행되는 구조라 허용하지 않습니다.</aside><figure class="shot" data-id="ll-w-html"><img src="../img/ll-w-html.png" alt="" loading="lazy" onerror="this.closest('figure').classList.add('empty')"><span class="ph"><b>사진 자리</b><i>img/ll-w-html.png</i></span><figcaption>HTML 위젯 — 편집과 결과</figcaption></figure>
     <nav class="pn" id="pn"></nav>
   </main>
 </div>

diff --git a/luvlog/widgets-link.html b/luvlog/widgets-link.html
@@ -23,7 +23,7 @@
   <main class="doc">
     <p class="crumb">러브로그 · 위젯</p>
     <h1>연결·상호작용 위젯</h1>
-    <ul><li>프로필 · 검색 · 카테고리 — 기본 3종. 검색은 제목·본문·태그를 함께 찾습니다(비밀글 본문 제외). 검색 모양 5종(기본·밑줄·터미널·라벨지·캡슐). 카테고리는 모양 8종(기본·알약·네모·글씨만·탭 폴더·브래킷·점 구분·세로 목차), 선택 표시(기본/연하게/없음), 글 수 표시 온오프.</li><li>링크 — 바깥으로 나가는 목록. 스킨 알약·아이콘 카드·트리·링크트리·명함(왼쪽 색 띠 + 아래 주소 한 줄).</li><li>배너칸 — 이미지 배너 목록. [＋ 러브로그 홈 걸기]로 핸들만 적으면 그 홈이 배너로 걸립니다. 보여줄 개수(높이)를 정할 수 있고 넘치면 스크롤.</li><li>이웃 홈 — 다른 러브로그 주소를 적으면 이름·헤더 사진이 자동으로 뜨는 목록. 바깥 주소도 https://+이름으로 같이. 스킨 아바타 링(한 줄 3~6·동그라미/둥근 네모, 서로 이웃은 포인트색 링)·텍스트 목차.</li><li>방문자수 — TODAY/TOTAL 카운터(하나만). 스킨 계기판·스탬프·터미널.</li><li>발도장 — 방문자가 하루에 하나씩 도장을 찍고 갑니다. 도장 이모지 1~4개, 안내 문구 변경·끄기.</li></ul><figure class="shot" data-id="ll-w-links"><img src="../img/ll-w-links.png" alt="" loading="lazy" onerror="this.closest('figure').classList.add('empty')"><span class="ph"><b>사진 자리</b><i>img/ll-w-links.png</i></span><figcaption>링크 위젯 스킨 5종</figcaption></figure><figure class="shot" data-id="ll-w-neighbors"><img src="../img/ll-w-neighbors.png" alt="" loading="lazy" onerror="this.closest('figure').classList.add('empty')"><span class="ph"><b>사진 자리</b><i>img/ll-w-neighbors.png</i></span><figcaption>이웃 홈 위젯 — 아바타 링</figcaption></figure>
+    <ul><li>프로필 · 검색 · 카테고리 — 기본 3종. 검색은 제목·본문·태그를 함께 찾습니다(비밀글 본문 제외). 검색 모양 5종(기본·밑줄·터미널·라벨지·캡슐). 카테고리는 모양 8종(기본·알약·네모·글씨만·탭 폴더·브래킷·점 구분·세로 목차), 선택 표시(기본/연하게/없음), 글 수 표시 온오프.</li><li>링크 — 바깥으로 나가는 목록. 스킨 알약·아이콘 카드·트리·링크트리·명함(왼쪽 색 띠 + 아래 주소 한 줄).</li><li>배너칸 — 이미지 배너 목록. [＋ 러브로그 홈 걸기]로 핸들만 적으면 그 홈이 배너로 걸립니다. 보여줄 개수(높이)를 정할 수 있고 넘치면 스크롤.</li><li>이웃 홈 — 다른 러브로그 주소를 적으면 이름·헤더 사진이 자동으로 뜨는 목록. 바깥 주소도 https://+이름으로 같이. 스킨 아바타 링(한 줄 3~6·동그라미/둥근 네모, 서로 이웃은 포인트색 링)·텍스트 목차.</li><li>방문자수 — TODAY/TOTAL 카운터(하나만). 스킨 9종 — 기본 · 계기판 · 스탬프 · 터미널 · 한 줄(숫자와 ▲ TODAY 한 줄, 아래 문구 선택) · 막대 · 두 칸 · 도트 전광판(자릿수 4~8) · 영수증(머리글 문구 변경). TOTAL · TODAY 이름표는 모든 스킨에서 원하는 말로 바꿀 수 있습니다.</li><li>발도장 — 방문자가 하루에 하나씩 도장을 찍고 갑니다. 도장 이모지 1~4개, 안내 문구 변경·끄기.</li></ul><figure class="shot" data-id="ll-w-counter-skins"><img src="../img/ll-w-counter-skins.png" alt="" loading="lazy" onerror="this.closest('figure').classList.add('empty')"><span class="ph"><b>사진 자리</b><i>img/ll-w-counter-skins.png</i></span><figcaption>방문자수 새 스킨 5종</figcaption></figure><figure class="shot" data-id="ll-w-links"><img src="../img/ll-w-links.png" alt="" loading="lazy" onerror="this.closest('figure').classList.add('empty')"><span class="ph"><b>사진 자리</b><i>img/ll-w-links.png</i></span><figcaption>링크 위젯 스킨 5종</figcaption></figure><figure class="shot" data-id="ll-w-neighbors"><img src="../img/ll-w-neighbors.png" alt="" loading="lazy" onerror="this.closest('figure').classList.add('empty')"><span class="ph"><b>사진 자리</b><i>img/ll-w-neighbors.png</i></span><figcaption>이웃 홈 위젯 — 아바타 링</figcaption></figure>
     <nav class="pn" id="pn"></nav>
   </main>
 </div>

diff --git a/luvlog/start.html b/luvlog/start.html
@@ -23,7 +23,7 @@
   <main class="doc">
     <p class="crumb">러브로그 · 시작하기</p>
     <h1>가입과 첫 홈</h1>
-    <p class="lead">구글 계정으로 로그인하고 주소와 홈 이름만 정하면 홈이 바로 만들어집니다.</p><h2 id="가입-순서">가입 순서</h2><ol class="steps"><li>첫 화면에서 구글 계정으로 로그인합니다.</li><li>주소(핸들)를 정합니다 — 영문 소문자·숫자·하이픈 2~20자. 쓸 수 없는 주소는 입력하는 동안 「사용할 수 없는 핸들이에요」라고 알려줍니다.</li><li>홈 이름을 적습니다. 나중에 바꿀 수 있습니다.</li><li>초대코드를 받았다면 코드 칸에 넣습니다. 코드가 필요한 시기에는 입력칸이 자동으로 뜹니다.</li><li>초대해 준 분의 러브로그 주소(1차 핸들)를 적습니다. 1차가 미리 지정된 초대코드라면 비워도 됩니다.</li></ol><figure class="shot" data-id="ll-start-signup"><img src="../img/ll-start-signup.png" alt="" loading="lazy" onerror="this.closest('figure').classList.add('empty')"><span class="ph"><b>사진 자리</b><i>img/ll-start-signup.png</i></span><figcaption>가입 화면 — 주소·홈 이름·초대코드·1차 핸들 칸</figcaption></figure><h2 id="내-홈-주소">내 홈 주소</h2><p>홈 주소는 <code>luvlog.me/핸들</code> 입니다. 핸들이 <code>mint</code>라면 <code>luvlog.me/mint</code>. 글마다 고유 주소가 생겨서 트위터 등에 바로 공유할 수 있습니다.</p><h2 id="친구-홈에-가기">친구 홈에 가기</h2><p>주소로 바로 방문하면 됩니다. 오른쪽 위 IN으로 로그인하면 방명록과 댓글을 남길 수 있습니다.</p><aside class="tip">홈은 기본이 비공개(주소를 아는 사람만 방문)입니다. 이웃 위젯에 이름·사진이 자동으로 뜨게 하려면 꾸미기 → 기본 정보의 「내 홈 공개하기」를 켜세요.</aside>
+    <p class="lead">구글 계정으로 로그인하고 주소와 홈 이름만 정하면 홈이 바로 만들어집니다.</p><h2 id="가입-순서">가입 순서</h2><ol class="steps"><li>첫 화면에서 구글 계정으로 로그인합니다.</li><li>주소(핸들)를 정합니다 — 영문 소문자·숫자·하이픈 1~20자(하이픈은 가운데만). 쓸 수 없는 주소는 입력하는 동안 「✗ 사용할 수 없는 주소입니다」라고 알려줍니다.</li><li>홈 이름을 적습니다. 나중에 바꿀 수 있습니다.</li><li>초대코드를 받았다면 코드 칸에 넣습니다. 코드가 필요한 시기에는 입력칸이 자동으로 뜹니다.</li><li>초대해 준 분의 러브로그 주소(1차 핸들)를 적습니다. 1차가 미리 지정된 초대코드라면 비워도 됩니다.</li></ol><figure class="shot" data-id="ll-start-login"><img src="../img/ll-start-login.png" alt="" loading="lazy" onerror="this.closest('figure').classList.add('empty')"><span class="ph"><b>사진 자리</b><i>img/ll-start-login.png</i></span><figcaption>첫 화면 — Google로 계속하기</figcaption></figure><figure class="shot" data-id="ll-start-signup"><img src="../img/ll-start-signup.png" alt="" loading="lazy" onerror="this.closest('figure').classList.add('empty')"><span class="ph"><b>사진 자리</b><i>img/ll-start-signup.png</i></span><figcaption>가입 화면(JOIN) — 주소·홈 이름·초대코드·1차 핸들 칸, 아래 [CREATE]</figcaption></figure><h2 id="내-홈-주소">내 홈 주소</h2><p>홈 주소는 <code>luvlog.me/핸들</code> 입니다. 핸들이 <code>mint</code>라면 <code>luvlog.me/mint</code>. 글마다 고유 주소가 생겨서 트위터 등에 바로 공유할 수 있습니다.</p><h2 id="친구-홈에-가기">친구 홈에 가기</h2><p>주소로 바로 방문하면 됩니다. 오른쪽 위 IN으로 로그인하면 방명록과 댓글을 남길 수 있습니다.</p><aside class="tip">홈은 기본이 비공개(주소를 아는 사람만 방문)입니다. 이웃 위젯에 이름·사진이 자동으로 뜨게 하려면 꾸미기 → 기본 정보의 「내 홈 공개하기」를 켜세요.</aside>
     <nav class="pn" id="pn"></nav>
   </main>
 </div>

diff --git a/updates.html b/updates.html
@@ -23,7 +23,21 @@
   <main class="doc">
     <p class="crumb">러브로그 · 러브인포</p>
     <h1>업데이트 노트</h1>
-    <p class="lead">최근 바뀐 것만 짧게. 자세한 사용법은 각 페이지에 반영돼 있습니다.</p><div class="upd"><time>2026.09.21</time><b>러브로그</b><ul>
+    <p class="lead">최근 바뀐 것만 짧게. 자세한 사용법은 각 페이지에 반영돼 있습니다.</p><div class="upd"><time>2026.09.28</time><b>러브로그</b><ul>
+<li>꾸미기 창 정리 — 왼쪽 칼럼을 HOME · DECORATE · MANAGE로 묶고 탭마다 한 줄 설명과 번호, 기본 정보 · 테마·레이아웃을 섹션 카드로 나누고 위쪽 칩으로 바로 이동 (<a href="luvlog/theme.html">테마·레이아웃</a> · <a href="luvlog/basic.html">기본 정보</a>)</li>
+<li>위젯 구성 — 추가 · 저장을 맨 위로, 🔍 찾기 · 상태 칩(켜짐 · 꺼둠 · 홈에서만 · PC에서만 · 띄움), 화면 순서로 / 위젯별로 보기, 꺼둔 위젯 칸(기본 접힘 · 다시 켜기) (<a href="luvlog/widgets.html#목록-보기">사용법</a>)</li>
+<li>🔔 알림함 모양 — 기본 · 줄 목록 · 터미널 · 편지지 · 말풍선 (<a href="luvlog/theme.html#알림함-모양">사용법</a>)</li>
+<li>마우스 커서 — 상황별 커서(링크·버튼 / 글자 입력 / 끌어 옮기기 / 사용 불가), .cur · .ani 파일 그대로, .ani 기본 커서는 움직이는 그대로 (<a href="luvlog/theme.html#마우스-커서">사용법</a>)</li>
+<li>방문자수 스킨 5종 추가 — 한 줄 · 막대 · 두 칸 · 도트 전광판 · 영수증, 모든 스킨에서 TOTAL · TODAY 이름표 변경 (<a href="luvlog/widgets-link.html">사용법</a>)</li>
+<li>HTML 위젯 홈당 5개까지 (<a href="luvlog/widgets-html.html">사용법</a>)</li>
+<li>글쓰기 — <code>[슬라이드 1-3]</code> 사진 슬라이드와 「⇆ 슬라이드로 넣기」, 첨부 사진 ✕로 빼기(번호 자동 정리) (<a href="luvlog/format.html#사진과-영상">사용법</a>)</li>
+<li>수정 — 세로 프로필형 헤더의 글자칸이 투명하던 문제, 네온 · 사이버펑크 · 레트로 · 옛 신문 테마의 밑줄 검색창 모양, 듀얼 테마에서 상황별 커서가 다른 모드로 넘어가던 문제</li>
+</ul></div><div class="upd"><time>2026.09.22 ~ 09.27</time><b>러브로그</b><ul>
+<li>새 로고와 공용 화면 — 로그인 · 가입 · 잠긴 홈 · 없는 페이지 · 로딩을 새 로고에 맞춰 다시 그림, 새로 만드는 홈의 기본 색(검정 · 점 없음 · 체리 포인트 — 기존 홈은 그대로), 개인정보처리방침 페이지(위쪽 PRIVACY)</li>
+<li>🔐 홈 잠금 — 러브로그 회원만 · 서로 이웃만 · 비밀번호로(서버 확인) · 대문 비밀번호만 (<a href="luvlog/basic.html#공개-잠금">사용법</a>)</li>
+<li>🔔 알림함 — 댓글 · 방명록 · 답글을 모아 보는 INBOX, 서로 이웃 홈의 새 글 NEW (<a href="luvlog/screen.html#알림함">사용법</a>)</li>
+<li>보안 — 비공개 글 · 이웃 공개 글 · 비밀 방명록 · 비밀 댓글을 서버에서 잠금, 〈회원만〉 잠금은 홈이 있는 계정만 (화면 변화 없음)</li>
+</ul></div><div class="upd"><time>2026.09.21</time><b>러브로그</b><ul>
 <li>해빗 트래커 — 달성률 표시 7종(두껍게 · 얇은 선 · 점 10칸 · 도넛 · 글자만 · 이모지·그림 10칸 · 이모지·그림이 달리는 막대)과 📈 기록 보기(월별 격자 · 달마다 달성률 · 전체 체크 일수 · 최장 연속) (<a href="luvlog/widgets-show.html#디데이-달력-해빗-트래커">사용법</a>)</li>
 <li>듀얼 테마 — 🖼 사진 전환 버튼(크기 · 원형 · 미리보기 · GIF 움짤 · 효과 없이), 〈버튼에 지금 모드 표시〉 옵션 (<a href="luvlog/dual.html#사진-버튼">사용법</a>)</li>
 <li>메모 — 팝업에서 카테고리 바꾸기, 사진 12장까지, 썸네일 ‹ ›로 순서 바꾸기 (<a href="luvlog/memo.html#메모-팝업">사용법</a>)</li>

diff --git a/assets/nav.js b/assets/nav.js
@@ -12,7 +12,7 @@ const NAV=[
 "s": "luvlog",
 "c": "시작하기",
 "t": "화면 구성과 버튼",
-"k": "갠홈 블로그 매거진 편집 모드 꾸미기 버튼 ⠿ ✦ ✎"
+"k": "갠홈 블로그 매거진 편집 모드 꾸미기 버튼 ⠿ ✦ ✎ 알림함 🔔 INBOX NEW 왼쪽 칼럼"
 },
 {
 "p": "luvlog/write.html",
@@ -26,7 +26,7 @@ const NAV=[
 "s": "luvlog",
 "c": "글쓰기",
 "t": "본문 서식",
-"k": "굵게 기울임 형광펜 접기 인용 링크 사진 글자 크기 색 대화 말풍선 톡 HTML 블록 HTML 모드 유튜브"
+"k": "굵게 기울임 형광펜 접기 인용 링크 사진 글자 크기 색 대화 말풍선 톡 HTML 블록 HTML 모드 유튜브 슬라이드 사진 빼기"
 },
 {
 "p": "luvlog/memo.html",
@@ -47,7 +47,7 @@ const NAV=[
 "s": "luvlog",
 "c": "위젯",
 "t": "위젯 공통 — 추가·편집·배치",
-"k": "위젯 추가 편집 저장 드래그 순서 모바일 복제 표시 범위 플로팅 투명 스킨 글꼴 제목"
+"k": "위젯 추가 편집 저장 드래그 순서 모바일 복제 표시 범위 플로팅 투명 스킨 글꼴 제목 찾기 상태 칩 꺼둔 위젯 다시 켜기 위젯별 화면 순서"
 },
 {
 "p": "luvlog/widgets-posts.html",
@@ -68,7 +68,7 @@ const NAV=[
 "s": "luvlog",
 "c": "위젯",
 "t": "연결·상호작용 위젯",
-"k": "프로필 검색 카테고리 링크 명함 배너칸 이웃 홈 방문자수 발도장"
+"k": "프로필 검색 카테고리 링크 명함 배너칸 이웃 홈 방문자수 발도장 방문자수 스킨 영수증 전광판 막대 두 칸 한 줄"
 },
 {
 "p": "luvlog/widgets-menu.html",
@@ -103,14 +103,14 @@ const NAV=[
 "s": "luvlog",
 "c": "꾸미기",
 "t": "기본 정보",
-"k": "홈 이름 부제 라벨 파비콘 헤더 사진 슬라이드 입장 화면 대문 대표 이미지 배너 이미지 이웃 메모 댓글 허용 반응 이모지 내 홈 공개"
+"k": "홈 이름 부제 라벨 파비콘 헤더 사진 슬라이드 입장 화면 대문 대표 이미지 배너 이미지 이웃 메모 댓글 허용 반응 이모지 내 홈 공개 잠금 홈 잠금 회원만 서로 이웃만 비밀번호 나만 보기 비공개 앱 아이콘 파비콘 초기화"
 },
 {
 "p": "luvlog/theme.html",
 "s": "luvlog",
 "c": "꾸미기",
 "t": "테마·레이아웃",
-"k": "테마 색 프리셋 글꼴 모서리 헤더 배치 액자 글 목록 줄 모양 페이지 번호 본문 크기 커서 효과 컨셉 프리셋 클릭 소리 커스텀 CSS 이미지 저장 방지 카드 투명 헤더 테두리 글 제목 카드 테두리 단색 배경 덮개 무채색"
+"k": "테마 색 프리셋 글꼴 모서리 헤더 배치 액자 글 목록 줄 모양 페이지 번호 본문 크기 커서 효과 컨셉 프리셋 클릭 소리 커스텀 CSS 이미지 저장 방지 카드 투명 헤더 테두리 글 제목 카드 테두리 단색 배경 덮개 무채색 알림함 모양 커서 상황별 ani cur 칩 섹션"
 },
 {
 "p": "luvlog/dual.html",

diff --git a/SHOTS.md b/SHOTS.md
@@ -45,3 +45,12 @@
 - `img/li-presets.png` — 테마 프리셋 10종 — 같은 페이지가 프리셋마다 이렇게 바뀌어요
 - `img/li-design.png` — 꾸미기 시트
 - `img/li-guestbook.png` — 방명록 블록
+
+## 2026.09.28 추가·교체
+- ll-theme-panel.png — 테마·레이아웃 설정 창(섹션 카드·칩) — 교체
+- ll-widget-list.png — 위젯 구성 목록 — 교체
+- ll-widget-types.png — 위젯별로 보기·꺼둔 칸 펼침
+- ll-basic-panel.png — 기본 정보 설정 창
+- ll-cursor-set.png — 상황별 커서
+- ll-w-counter-skins.png — 방문자수 새 스킨 5종
+- ll-start-login.png · ll-start-signup.png(교체) · li-start-landing.png · li-start-signup.png(교체) — 9/27 새 공용 화면
